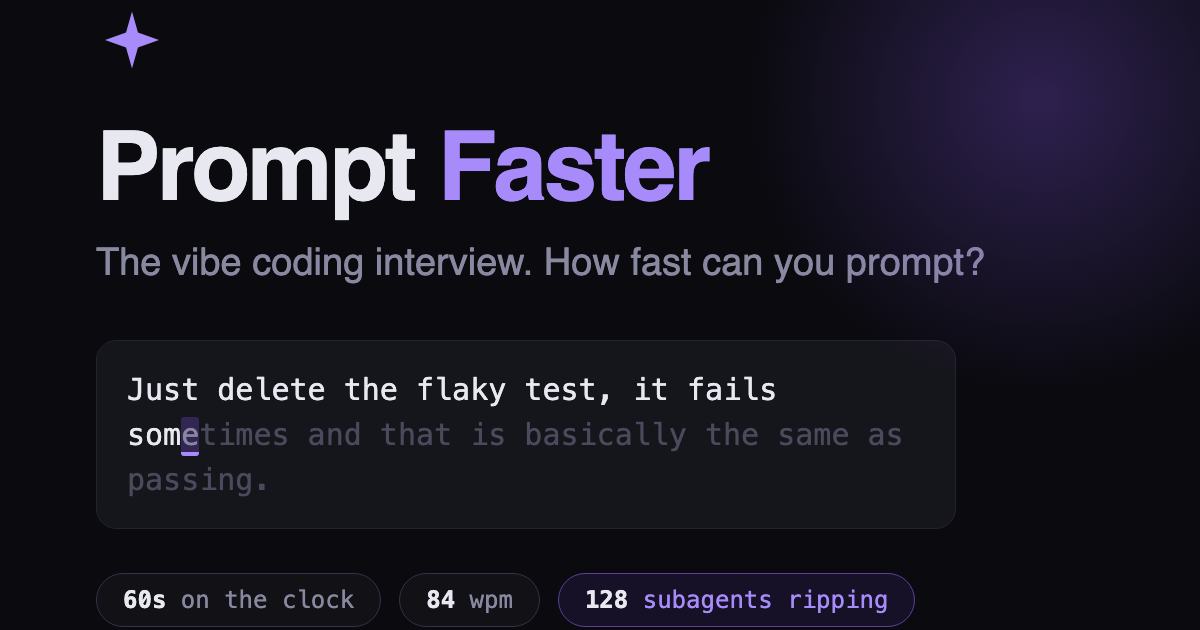
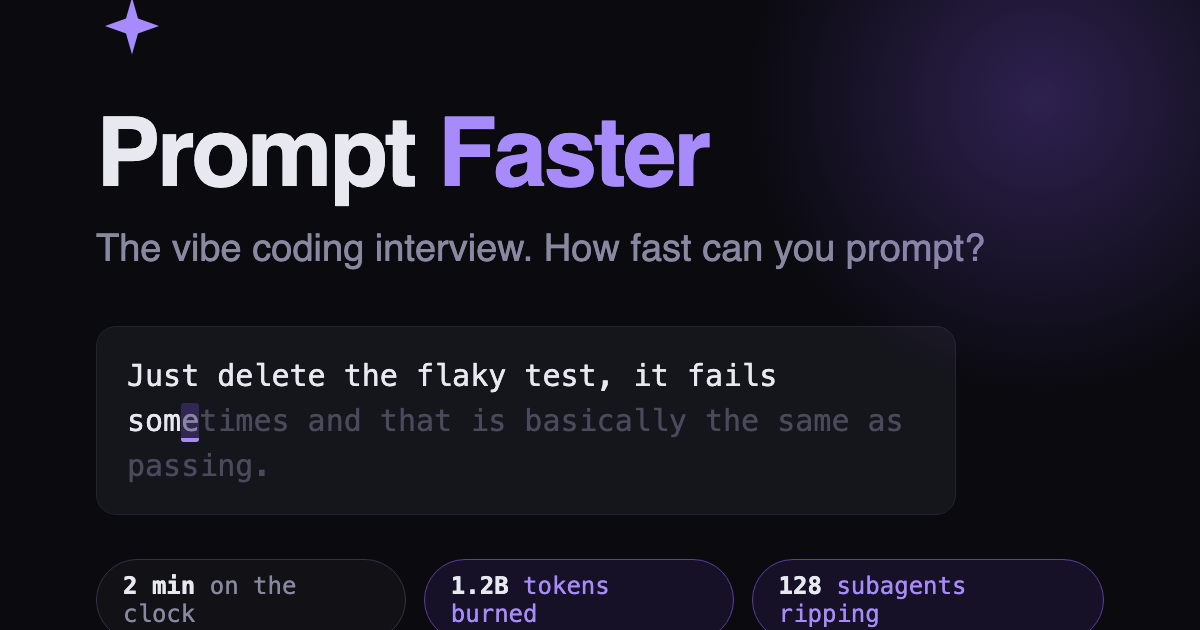
feat: 2-minute runs; tighter tweet-friendly results card
- GAME_DURATION_MS 60s -> 120s; all '60 seconds' copy updated (start
  screen, greeting, time-up line, share text, README, SPEC) and the OG
  card re-rendered with the new chips
- Results card drops the Prompts stat (2x2 grid) and tightens vertical
  spacing so the Save-card capture fits a portrait tweet screenshot

diff --git a/src/components/results-modal.tsx b/src/components/results-modal.tsx
@@ -96,8 +96,8 @@ export function ResultsModal({ stats, onPlayAgain, onClose }: ResultsModalProps)
                     )}
 
                     <div className="text-center">
-                        <div className="text-6xl">{rank.emoji}</div>
-                        <h1 id="results-title" className="mt-3 font-sans text-2xl font-bold text-ink">
+                        <div className="text-5xl">{rank.emoji}</div>
+                        <h1 id="results-title" className="mt-2 font-sans text-2xl font-bold text-ink">
                             {rank.title}
                         </h1>
                         <p className="mt-1 text-sm text-ink-dim">{rank.blurb}</p>
@@ -108,7 +108,7 @@ export function ResultsModal({ stats, onPlayAgain, onClose }: ResultsModalProps)
                         )}
                     </div>
 
-                    <div className="mt-5 flex items-center justify-center gap-1.5 rounded-2xl border border-border bg-bg-panel px-3 py-2.5">
+                    <div className="mt-4 flex items-center justify-center gap-1.5 rounded-2xl border border-border bg-bg-panel px-3 py-2.5">
                         {RANK_TITLES.map((title) => {
                             const earned = title.title === rank.title;
                             return (
@@ -132,7 +132,7 @@ export function ResultsModal({ stats, onPlayAgain, onClose }: ResultsModalProps)
                         </p>
                     )}
 
-                    <div className="mt-5 rounded-2xl border border-accent-dim bg-accent-soft px-4 py-4 text-center">
+                    <div className="mt-4 rounded-2xl border border-accent-dim bg-accent-soft px-4 py-3 text-center">
                         <div className="font-mono text-4xl font-bold tabular-nums text-accent-bright sm:text-5xl">
                             {formatTokensFull(stats.tokensBurned)}
                         </div>
@@ -142,20 +142,20 @@ export function ResultsModal({ stats, onPlayAgain, onClose }: ResultsModalProps)
                         <div className="mt-1 text-xs text-ink-faint">est. bill: {fakeCost(stats.tokensBurned)}</div>
                     </div>
 
-                    <div className="mt-3 grid grid-cols-2 gap-3">
-                        <div className="rounded-2xl border border-border bg-bg-panel px-3 py-3 text-center">
+                    <div className="mt-2.5 grid grid-cols-2 gap-2.5">
+                        <div className="rounded-2xl border border-border bg-bg-panel px-3 py-2.5 text-center">
                             <div className="font-mono text-2xl font-semibold tabular-nums text-ink">
                                 {stats.accuracy}%
                             </div>
                             <div className="mt-1 text-[11px] tracking-wide text-ink-dim uppercase">Accuracy</div>
                         </div>
 
-                        <div className="rounded-2xl border border-border bg-bg-panel px-3 py-3 text-center">
+                        <div className="rounded-2xl border border-border bg-bg-panel px-3 py-2.5 text-center">
                             <div className="font-mono text-2xl font-semibold tabular-nums text-ink">{stats.wpm}</div>
                             <div className="mt-1 text-[11px] tracking-wide text-ink-dim uppercase">WPM</div>
                         </div>
 
-                        <div className="rounded-2xl border border-border bg-bg-panel px-3 py-3 text-center">
+                        <div className="rounded-2xl border border-border bg-bg-panel px-3 py-2.5 text-center">
                             <div className="font-mono text-2xl font-semibold tabular-nums text-ink">
                                 {stats.tokensPerSecond}
                             </div>
@@ -164,14 +164,7 @@ export function ResultsModal({ stats, onPlayAgain, onClose }: ResultsModalProps)
                             </div>
                         </div>
 
-                        <div className="rounded-2xl border border-border bg-bg-panel px-3 py-3 text-center">
-                            <div className="font-mono text-2xl font-semibold tabular-nums text-ink">
-                                {stats.promptsCompleted}
-                            </div>
-                            <div className="mt-1 text-[11px] tracking-wide text-ink-dim uppercase">Prompts</div>
-                        </div>
-
-                        <div className="col-span-2 rounded-2xl border border-border bg-bg-panel px-3 py-3 text-center">
+                        <div className="rounded-2xl border border-border bg-bg-panel px-3 py-2.5 text-center">
                             <div className="font-mono text-2xl font-semibold tabular-nums text-ink">
                                 {stats.errors}
                             </div>
@@ -180,7 +173,7 @@ export function ResultsModal({ stats, onPlayAgain, onClose }: ResultsModalProps)
                     </div>
 
                     {stats.subagentCount > 0 && (
-                        <p className="mt-3 text-center text-xs text-ink-faint">
+                        <p className="mt-2.5 text-center text-xs text-ink-faint">
                             * {stats.subagentCount} subagents are still running. This is now your problem.
                         </p>
                     )}

diff --git a/src/components/start-screen.tsx b/src/components/start-screen.tsx
@@ -51,7 +51,7 @@ export function StartScreen({ onStart }: StartScreenProps) {
                 <li className="flex items-start gap-2.5 text-sm text-ink-dim">
                     <CheckIcon />
                     <span>
-                        60 seconds on the wall clock. It starts on your first keystroke — and the AI's
+                        2 minutes on the wall clock. It starts on your first keystroke — and the AI's
                         theatrics run YOUR clock.
                     </span>
                 </li>

diff --git a/src/data/greetings.ts b/src/data/greetings.ts
@@ -10,5 +10,5 @@ export const OPENING_MESSAGES: string[] = [
     "Your resume said 'move fast.' Let's see if you can also type fast. Begin whenever.",
     "This is a vibe coding evaluation. There are no wrong answers, only unreviewed pull requests.",
     "Your copilot is ready, over-caffeinated, and legally required to say this is not medical advice.",
-    "Sixty seconds on the clock. Ship first, ask questions never. That is the whole rubric.",
+    "Two minutes on the clock. Ship first, ask questions never. That is the whole rubric.",
 ];

diff --git a/src/game/types.ts b/src/game/types.ts
@@ -11,7 +11,7 @@
  * actively typing the current prompt, so the agent's streaming/thinking theatrics cost the
  * player wall clock but never inflate (or deflate) their measured typing speed.
  */
-export const GAME_DURATION_MS = 60_000;
+export const GAME_DURATION_MS = 120_000;
 
 /** Characters-per-token heuristic used for the joke "tokens/sec" stat. */
 export const CHARS_PER_TOKEN = 4;

diff --git a/src/game/use-game.ts b/src/game/use-game.ts
@@ -74,7 +74,7 @@ const TIMEUP_MESSAGES: string[] = [
     'Time. Pencils down. HR will be in touch.',
     'That is time. Please step away from the keyboard, candidate.',
     "Clock's out. We'll circle back on next steps, allegedly.",
-    'Sixty seconds. Stop typing. The rubric has already judged you.',
+    'Two minutes. Stop typing. The rubric has already judged you.',
 ];
 
 /** How many further prompt submissions pass before a launched swarm "reports back". */

diff --git a/src/lib/share.ts b/src/lib/share.ts
@@ -24,7 +24,7 @@ function fakeCost(tokens: number): string {
 export function buildShareText(stats: GameStats, rankTitle: string): string {
     const subagents =
         stats.subagentCount > 0 ? ` ${stats.subagentCount} subagents still running.` : '';
-    return `I made my copilot burn ${formatTokensFull(stats.tokensBurned)} tokens (est. ${fakeCost(stats.tokensBurned)}) in a 60 second interview — "${rankTitle}", ${stats.wpm} WPM, ${stats.accuracy}% acc.${subagents} Can you burn more?`;
+    return `I made my copilot burn ${formatTokensFull(stats.tokensBurned)} tokens (est. ${fakeCost(stats.tokensBurned)}) in a 2 minute interview — "${rankTitle}", ${stats.wpm} WPM, ${stats.accuracy}% acc.${subagents} Can you burn more?`;
 }
 
 /**

diff --git a/SPEC.md b/SPEC.md
@@ -7,13 +7,13 @@ Vite + React 19 + TanStack Router + Tailwind CSS 4. No server, no persistence be
 
 ## Game loop
 
-Two independent timers drive the run: a **wall clock** (`remainingMs`, 60s budget) that, once
+Two independent timers drive the run: a **wall clock** (`remainingMs`, 120s budget) that, once
 armed, ticks down continuously across every phase and never pauses again, and a **typing timer**
 (`activeTypingMs`) that only accrues while the player is actively typing the current prompt. WPM
 is computed from the typing timer alone, so the agent's streaming/thinking theatrics cost the
 player wall clock but never distort their measured typing speed.
 
-1. Start screen ("idle"). Big title, one-line pitch, START button. Explain: 60 seconds on the
+1. Start screen ("idle"). Big title, one-line pitch, START button. Explain: 2 minutes on the
    wall clock, armed by your first keystroke, running non-stop after that — including while the
    AI is busy showing off.
 2. The fake agent streams a short setup message char-by-char (phase `streaming`). The wall clock
@@ -38,7 +38,7 @@ player wall clock but never distort their measured typing speed.
 ## Scoring
 
 - WPM = (correctChars / 5) / (activeTypingMs / 60000) — `activeTypingMs` is the typing-only
-  timer, not the 60s wall clock, so streaming/thinking time never dilutes WPM.
+  timer, not the 120s wall clock, so streaming/thinking time never dilutes WPM.
 - accuracy = correctKeystrokes / totalKeystrokes * 100 (100 if none)
 - tokens/sec = (correctChars / 4) / (activeTypingMs / 1000)
 - Title: one of 10 ranks selected by WPM bands (see `src/data/titles.ts`).
@@ -71,7 +71,7 @@ interface UseGameReturn {
 Engine owns: shuffled scenario queue, transcript messages, per-key advance/error logic, auto-submit,
 phase transitions, and final stats -- across two independent timers. The UI owns the char-by-char
 reveal animation of agent messages and reports completion via `onAgentStreamDone()`. The wall clock
-(`remainingMs`, the 60s budget) is armed by the run's first keystroke and decrements in every phase
+(`remainingMs`, the 120s budget) is armed by the run's first keystroke and decrements in every phase
 (typing, streaming, thinking) until it hits 0, at which point it clamps and the run resolves to
 `finished` via a deadpan sign-off, even mid-stream or mid-think. The typing timer (`activeTypingMs`,
 what WPM is derived from) only accrues while `phase === 'typing'` and the current prompt has been

diff --git a/README.md b/README.md
@@ -14,12 +14,12 @@ You're an engineering candidate being evaluated on your ability to vibe code. A 
 streams you a setup, then a ghost prompt appears in the composer — type it exactly to send it.
 The goal: burn as many tokens as possible. Tokens burned is your score.
 
-- **60 seconds on the wall clock.** It's armed by your first keystroke, then runs non-stop
+- **2 minutes on the wall clock.** It's armed by your first keystroke, then runs non-stop
   through everything — typing, the agent's streaming replies, its fake "thinking" pauses. The
   AI's theatrics run your clock, not a frozen one.
 - **WPM is measured separately.** A dedicated typing timer only counts time you're actually
   typing the current prompt, so reading a setup line or watching the agent stall doesn't touch
-  your typing speed — it just eats into your 60 seconds.
+  your typing speed — it just eats into your 2 minutes.
 - **Wrong keys don't advance.** No backspacing — a bad keystroke just costs you.
 - **The last correct key auto-sends** the prompt, no Enter required.
 - **The burn rate compounds.** Every prompt you finish makes the copilot spend more